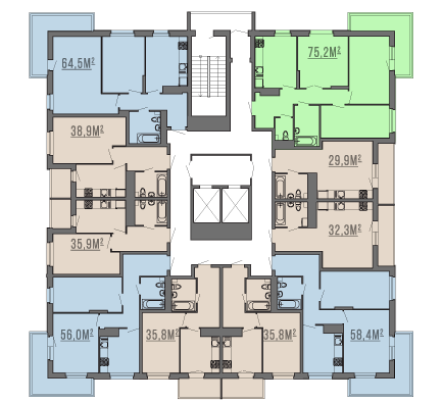
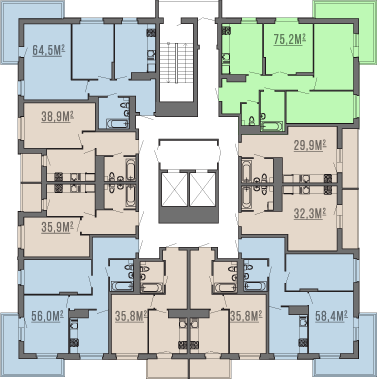
melody4

diff --git a/index.html b/index.html
@@ -133,26 +133,24 @@
       <div class="modal-image">
         <h3 class="modal-title">Этаж <span class="counter"> 7</span></h3>
         <!-- <img class="floats-bg" src="img/floor.png" alt=""> -->
-        <svg class="flats" width="433" height="408" viewBox="0 0 433 408" fill="none" xmlns="http://www.w3.org/2000/svg"
-          xmlns:xlink="http://www.w3.org/1999/xlink">
-
-
-          <path d="M388 81V141H314V148H267.5V131H247V32.5H338.5V16H405V81H388Z" fill="#3595F6" fill-opacity="0.75" />
-          <path d="M314 148.5H268V200H367.5V205H387.5V141H314V148.5Z" fill="#3595F6" fill-opacity="0.75" />
-          <path d="M314.192 252.662H268V200H367.916V204.602H388V268H314.192V252.662Z" fill="#3595F6"
+        <svg class="flats" width="377" height="379" viewBox="0 0 377 379" fill="none"
+          xmlns="http://www.w3.org/2000/svg">
+          <path d="M360 65V125H286V132H239.5V115H219V16.5H310.5V0H377V65H360Z" fill="#3595F6" fill-opacity="0.75" />
+          <path d="M286 132.5H240V184H339.5V189H359.5V125H286V132.5Z" fill="#3595F6" fill-opacity="0.75" />
+          <path d="M286.192 236.662H240V184H339.916V188.602H360V252H286.192V236.662Z" fill="#3595F6"
             fill-opacity="0.75" />
-          <path d="M314 253H268.5V309H295.5V376H340V393H405V328.5H388V268.5H314V253Z" fill="#3595F6"
+          <path d="M286 237H240.5V293H267.5V360H312V377H377V312.5H360V252.5H286V237Z" fill="#3595F6"
             fill-opacity="0.75" />
-          <path d="M218 394.5V264H247.5V273.5H267.5V310.5H294.5V375H259.5V394.5H218Z" fill="#3595F6"
+          <path d="M190 378.5V248H219.5V257.5H239.5V294.5H266.5V359H231.5V378.5H190Z" fill="#3595F6"
             fill-opacity="0.75" />
-          <path d="M217 394.5V264H187.5V273.5H167.5V310.5H140.5V375H175.5V394.5H217Z" fill="#3595F6"
+          <path d="M189 378.5V248H159.5V257.5H139.5V294.5H112.5V359H147.5V378.5H189Z" fill="#3595F6"
             fill-opacity="0.75" />
-          <path d="M121 252H166.5V309H139.5V376H95V393H30V328.5H47V273.5H121V252Z" fill="#3595F6" fill-opacity="0.75" />
-          <path d="M119.5 273.5H46V198H167V250.822H119.5V273.5Z" fill="#3595F6" fill-opacity="0.75" />
-          <path d="M124.729 116H46V198H167V145.178H124.729V116Z" fill="#3595F6" fill-opacity="0.75" />
-          <path d="M46.5 81V115.5H125V144.5H164V131H184.5V32.5H93V16H28V81H46.5Z" fill="#3595F6" fill-opacity="0.75" />
-
+          <path d="M93 236H138.5V293H111.5V360H67V377H2V312.5H19V257.5H93V236Z" fill="#3595F6" fill-opacity="0.75" />
+          <path d="M91.5 257.5H18V182H139V234.822H91.5V257.5Z" fill="#3595F6" fill-opacity="0.75" />
+          <path d="M96.7293 100H18V182H139V129.178H96.7293V100Z" fill="#3595F6" fill-opacity="0.75" />
+          <path d="M18.5 65V99.5H97V128.5H136V115H156.5V16.5H65V0H0V65H18.5Z" fill="#3595F6" fill-opacity="0.75" />
         </svg>
+
 
         <!-- FLOORS -->
       </div>

diff --git a/css/style.css b/css/style.css
@@ -253,7 +253,7 @@ path.current-floor{
 }
 
 .flats{
-  background-image: url("../img/Floor.png") ;
+  background-image: url("../img/floor.png") ;
   background-repeat: no-repeat;
   background-position: center;
   background-size: cover 
